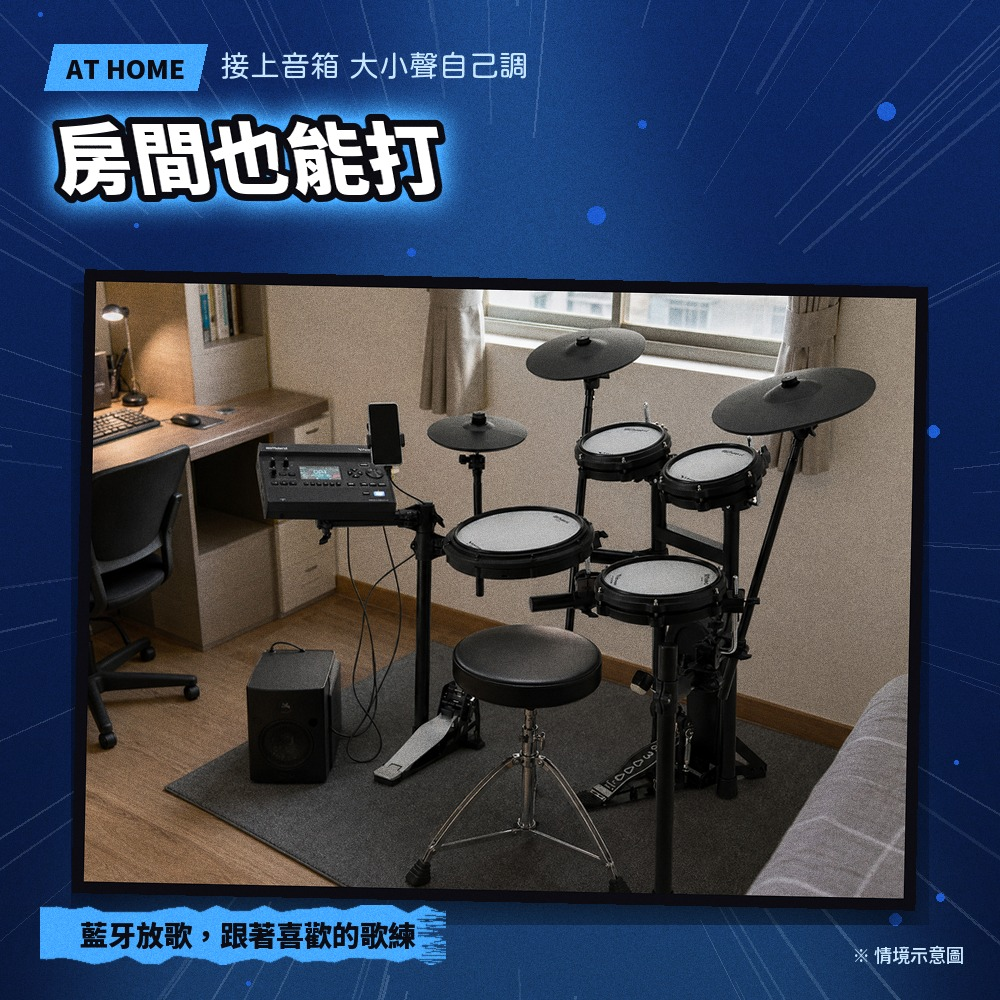
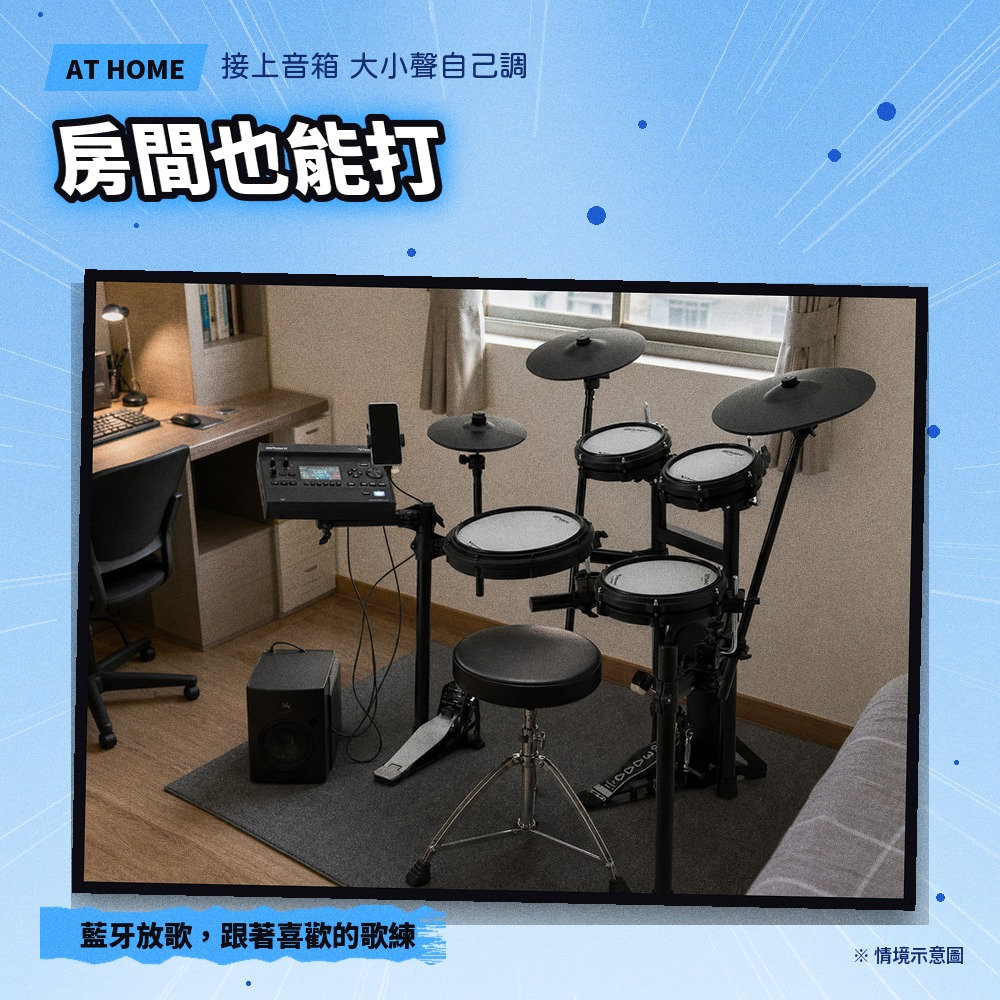
TD-313 藍色巨星風改淺藍

diff --git a/drums/TD-313/bluegiant/index.html b/drums/TD-313/bluegiant/index.html
@@ -10,7 +10,7 @@ h2{font-size:20px;margin:34px 0 10px}a{color:var(--blue);text-decoration:none}
 .c i{font-style:normal;color:var(--sub);font-size:13px;line-height:1.6;display:block}.c em{font-style:normal;font-size:12px;color:#1f8a4c}</style></head><body><div class="w">
 <p><a href="../../../">← 上架圖庫首頁</a>　<a href="../bluegiant/">藍色巨星風</a>　<a href="../apple2/">蘋果風</a></p>
 <h1>Roland TD-313 電商圖（藍色巨星風）</h1>
-<p class="s">11/24 主推整套。深藍夜色、聚光燈、速度線、毛筆刷字。順序：01 主圖（入門／進階／豪華＋無字備份，兩套共用）→ 02 封面 → 03~05 居家情境 → 10~17 音色與特色 → 20 品牌、21 適合誰 → 30 內容物 → 31 尺寸 → 32 規格 → 33 同價位比較 → 90~92 配送／退貨／偏遠地區（兩套用語排版都不同）。檔名全英文可直接傳 MOMO。</p><div class="g">
+<p class="s">11/24 主推整套。淺藍天空底（杰哥 11/24 改淺）、白色聚光、速度線、毛筆刷字。順序：01 主圖（入門／進階／豪華＋無字備份，兩套共用）→ 02 封面 → 03~05 居家情境 → 10~17 音色與特色 → 20 品牌、21 適合誰 → 30 內容物 → 31 尺寸 → 32 規格 → 33 同價位比較 → 90~92 配送／退貨／偏遠地區（兩套用語排版都不同）。檔名全英文可直接傳 MOMO。</p><div class="g">
 <a href="TD313_BG_01_main_adv.jpg" target="_blank"><img loading="lazy" src="TD313_BG_01_main_adv.jpg"><span>TD313_BG_01_main_adv.jpg</span></a>
 <a href="TD313_BG_01_main_adv_notext.jpg" target="_blank"><img loading="lazy" src="TD313_BG_01_main_adv_notext.jpg"><span>TD313_BG_01_main_adv_notext.jpg</span></a>
 <a href="TD313_BG_01_main_basic.jpg" target="_blank"><img loading="lazy" src="TD313_BG_01_main_basic.jpg"><span>TD313_BG_01_main_basic.jpg</span></a>
